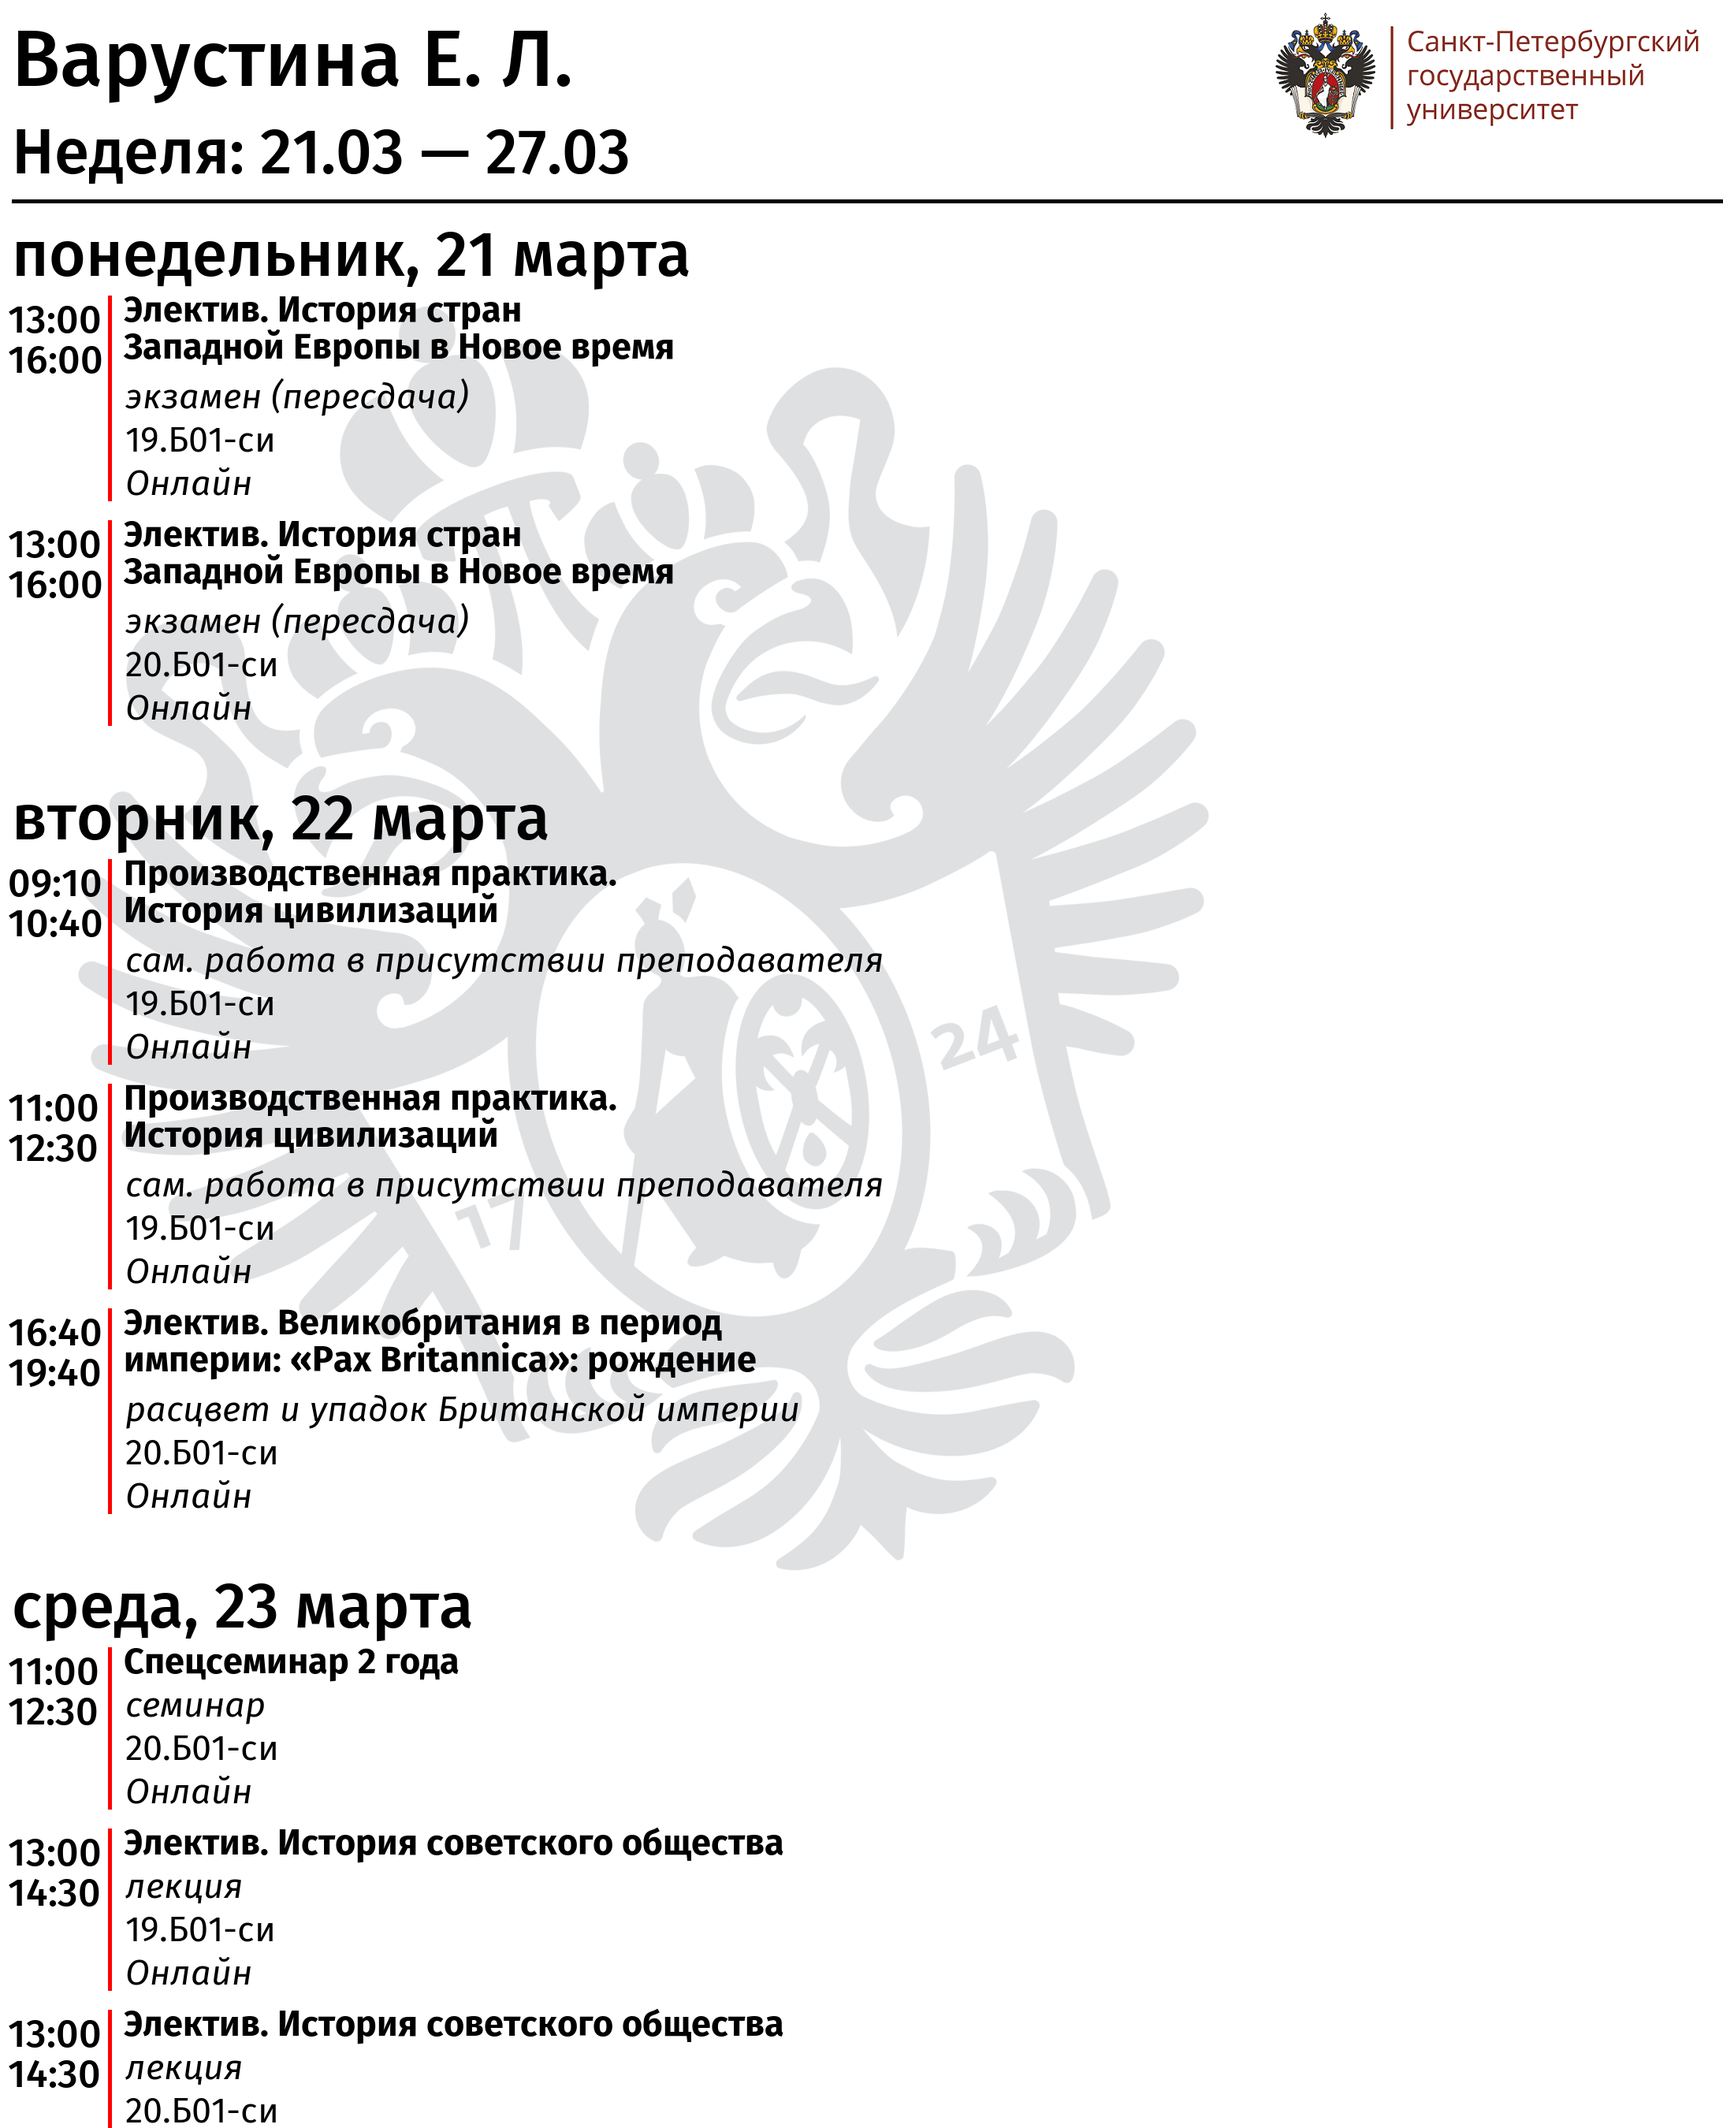
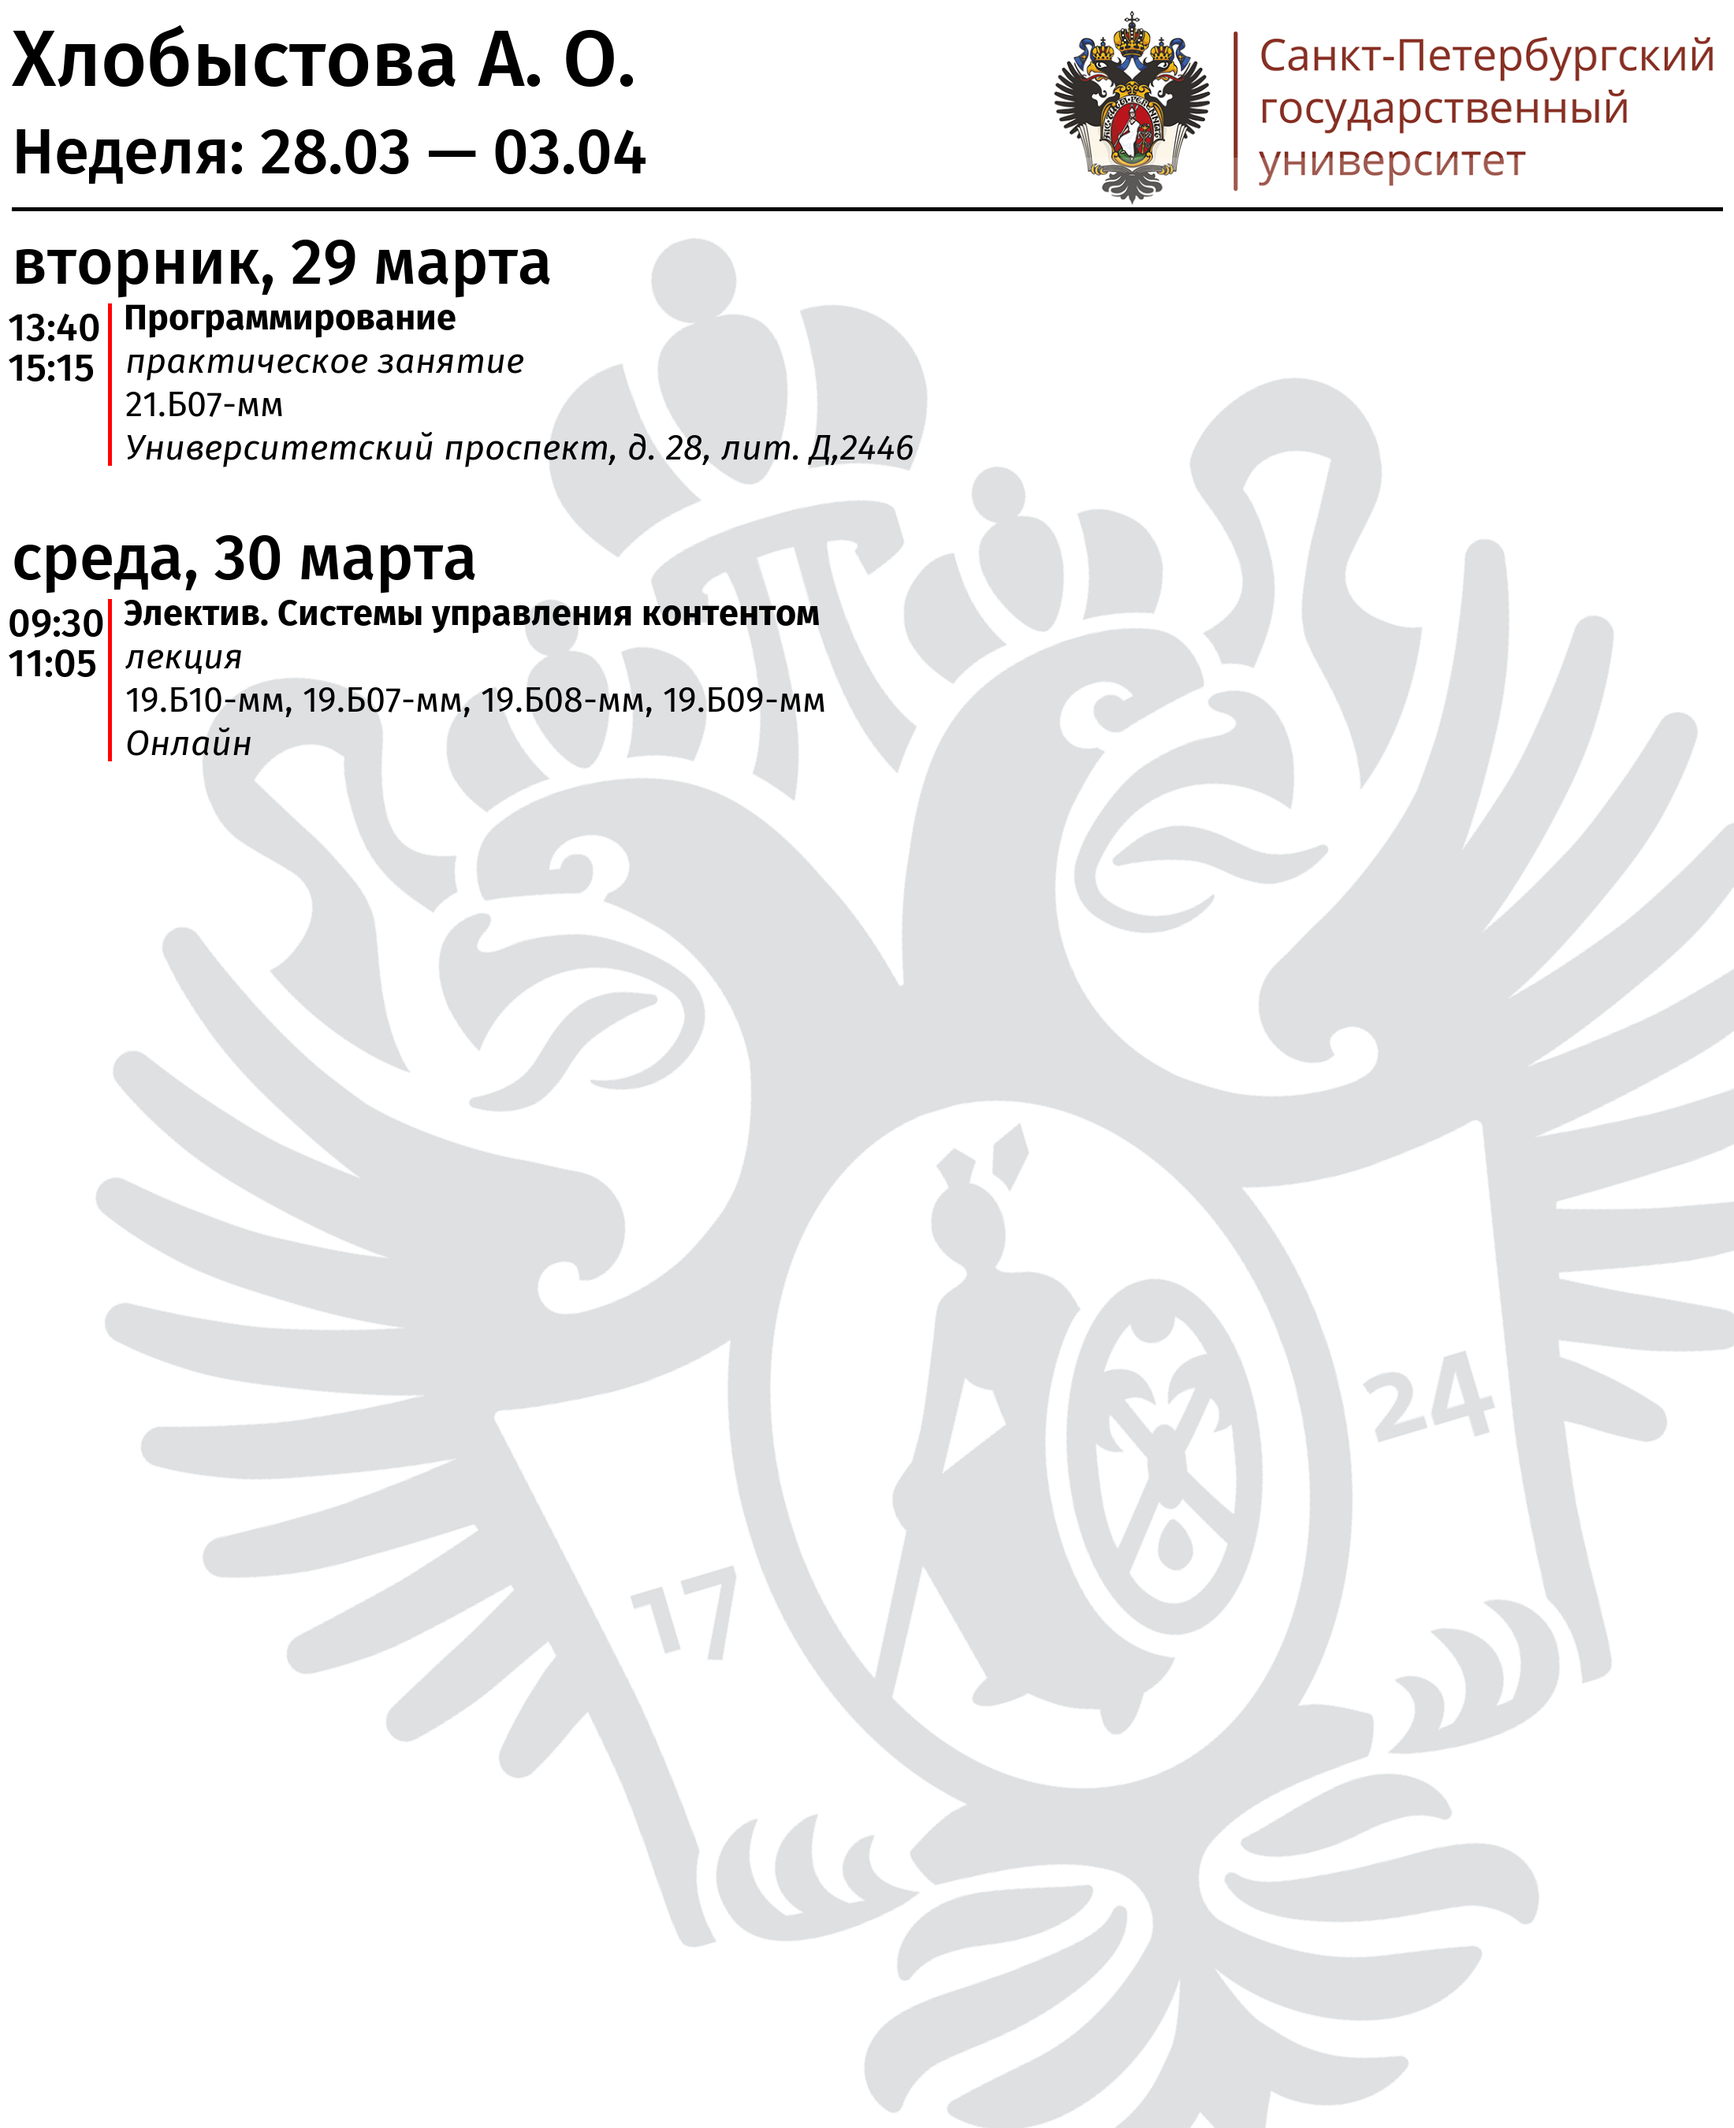
Refactoring

diff --git a/utils/image_converter/converter.py b/utils/image_converter/converter.py
@@ -12,7 +12,7 @@ class TimetableIMG:
     font_bold = ImageFont.truetype(font="data/converter/FiraSansFonts/FiraSans-Bold.ttf", size=45)
     font_italic = ImageFont.truetype(font="data/converter/FiraSansFonts/FiraSans-Italic.ttf", size=45)
 
-    def __init__(self, path_final_img):
+    def __init__(self, path_final_img: str):
         self.path_final_img = path_final_img
         self.current_image = self.create_foundation()
         self.x = 30
@@ -25,59 +25,60 @@ class TimetableIMG:
         image = Image.new(mode="RGB",
                           size=(TimetableIMG.final_img_width, TimetableIMG.final_img_height),
                           color="white")
-        image.paste(im=image_spbu, box=(image.width - image_spbu.width, 0))
+        image.paste(im=image_spbu, box=(image.width - image_spbu.width - 20, 10), mask=image_spbu)
         image_spbu.close()
-        image.paste(im=image_spbu_logo, box=(-50, 300), mask=image_spbu_logo)
+        image.paste(im=image_spbu_logo, box=(-100, 200), mask=image_spbu_logo)
         image_spbu_logo.close()
         return image
 
-    def image_title(self, title, date):
+    def image_title(self, title: str, date: str):
         x, y = self.x - 15, self.y - 15
         image = self.current_image
         draw = ImageDraw.Draw(image)
         draw.text(xy=(x, y), text=title, font=TimetableIMG.font_h1, fill="black")
         y += TimetableIMG.font_h1.size + 30
         draw.text(xy=(x, y), text=date, font=TimetableIMG.font_h2, fill="black")
-        y += TimetableIMG.font_h2.size + 30
+        y += TimetableIMG.font_h2.size + 40
         draw.line(xy=[(x, y), (image.width-x, y)], fill="black", width=5)
         y += 20
         self.x, self.y = x, y
         image.save(self.path_final_img)
 
+    def draw_text(self, xy: tuple, text: str, font: ImageFont, offset_x: int, offset_y: int) -> tuple:
+        image = self.current_image
+        draw = ImageDraw.Draw(image)
+        x, y = xy
+        if text.find('\n') == -1:
+            draw.text(xy=xy, text=text, font=font, fill="black")
+            y += font.size + offset_y
+        else:
+            draw.multiline_text(xy=xy, align="left", text=text, font=font, fill="black")
+            y += (font.size + offset_y) * 2
+        x += offset_x
+        return x, y
+
     def insert_timetable(self, timetable: str):
         text = re.findall(r">([^<]+)</", timetable)
         image = self.current_image
         draw = ImageDraw.Draw(image)
-        draw.text(xy=(self.x, self.y), text=text[0], font=TimetableIMG.font_h2, fill="black")
         skip = 10
         indent = 120
+        x, y = self.draw_text(xy=(self.x, self.y), text=text[0], font=TimetableIMG.font_h2,
+                              offset_x=indent, offset_y=skip)
         self.y += TimetableIMG.font_h2.size + skip
-        x, y = self.x + indent, self.y
         for i in range(1, len(text), 5):
-            if text[i + 1].find('\n') == -1:
-                draw.text(xy=(x, y), text="  {}".format(text[i + 1]), font=TimetableIMG.font_bold, fill="black")
-                y += TimetableIMG.font_bold.size + skip
-            else:
-                draw.multiline_text(xy=(x, y), align="left", text="  {}".format(text[i + 1]),
-                                    font=TimetableIMG.font_bold, fill="black")
-                y += (TimetableIMG.font_bold.size + skip) * 2
-            draw.text(xy=(x, y), text="  {}".format(text[i + 2]), font=TimetableIMG.font_italic, fill="black")
-            y += TimetableIMG.font_italic.size + skip
-            if text[i + 3].find('\n') == -1:
-                draw.text(xy=(x, y), text="  {}".format(text[i + 3]), font=TimetableIMG.font_reqular, fill="black")
-                y += TimetableIMG.font_reqular.size + skip
-            else:
-                draw.multiline_text(xy=(x, y), align="left", text="  {}".format(text[i + 3]),
-                                    font=TimetableIMG.font_reqular, fill="black")
-                y += (TimetableIMG.font_reqular.size + skip) * 2
-            draw.text(xy=(x, y), text="  {}".format(text[i + 4]), font=TimetableIMG.font_italic, fill="black")
-            y += TimetableIMG.font_italic.size + skip
+            x, y = self.draw_text(xy=(x, y), text=f"  {text[i + 1]}", font=TimetableIMG.font_bold,
+                                  offset_x=0, offset_y=skip)
+            x, y = self.draw_text(xy=(x, y), text=f"  {text[i + 2]}", font=TimetableIMG.font_italic,
+                                  offset_x=0, offset_y=skip)
+            x, y = self.draw_text(xy=(x, y), text=f"  {text[i + 3]}", font=TimetableIMG.font_reqular,
+                                  offset_x=0, offset_y=skip)
+            x, y = self.draw_text(xy=(x, y), text=f"  {text[i + 4]}", font=TimetableIMG.font_italic,
+                                  offset_x=0, offset_y=skip)
             draw.line(xy=[(x + 4, self.y + skip), (x + 4, y - skip//2)], fill="red", width=5)
-            draw.multiline_text(xy=(10, self.y + skip),
-                                text="{}\n{}".format(text[i].split('–')[0], text[i].split('–')[1]),
-                                font=TimetableIMG.font_h3, fill="black")
-            y += skip
-            self.x, self.y = x, y
+            self.draw_text(xy=(10, self.y + skip), text="{}\n{}".format(text[i].split('–')[0], text[i].split('–')[1]),
+                           font=TimetableIMG.font_h3, offset_x=0, offset_y=0)
+            self.x, self.y = x, y + skip
         self.y += TimetableIMG.font_reqular.size + skip
         self.x -= indent
         image.save(self.path_final_img)

diff --git a/keyboards/inline/choice_user_status_buttons.py b/keyboards/inline/choice_user_status_buttons.py
@@ -5,17 +5,17 @@ from keyboards.inline.callback_data import user_status_callback
 choice_user_status = InlineKeyboardMarkup(
     inline_keyboard=[
         [
-            InlineKeyboardButton(text="Я студент (знаю название группы)", callback_data=user_status_callback.new(
+            InlineKeyboardButton(text="❌ Я студент (знаю название группы)", callback_data=user_status_callback.new(
                 name="student group"
             ))
         ],
         [
-            InlineKeyboardButton(text="Я студент (не знаю название группы)", callback_data=user_status_callback.new(
+            InlineKeyboardButton(text="❌ Я студент (не знаю название группы)", callback_data=user_status_callback.new(
                 name="student navigation"
             ))
         ],
         [
-            InlineKeyboardButton(text="Я преподаватель", callback_data=user_status_callback.new(
+            InlineKeyboardButton(text="✅ Я преподаватель", callback_data=user_status_callback.new(
                 name="teacher"
             ))
         ]

diff --git a/keyboards/inline/timetable_buttons.py b/keyboards/inline/timetable_buttons.py
@@ -36,10 +36,10 @@ async def create_timetable_keyboard(user_type: str, tt_id: int, day_counter=0) -
                                                                                  type=user_type,
                                                                                  Id=tt_id))
     timetable_keyboard.row(this_week_button, next_week_button)
-    picture = InlineKeyboardButton(text="🖼 Картинкой 🖼",
+    picture_button = InlineKeyboardButton(text="🖼 Картинкой 🖼",
                                    callback_data=timetable_callback.new(button="3-1",
                                                                         type='picture',
                                                                         Id=0))
-    timetable_keyboard.row(picture)
+    timetable_keyboard.row(picture_button)
 
     return timetable_keyboard

diff --git a/handlers/users/start.py b/handlers/users/start.py
@@ -1,4 +1,5 @@
-from aiogram.contrib.middlewares import logging
+import logging
+
 from aiogram.dispatcher import FSMContext
 from aiogram.types import Message, CallbackQuery
 from aiogram.dispatcher.filters.builtin import CommandStart
@@ -10,6 +11,7 @@ from loader import dp
 @dp.message_handler(CommandStart(), state="*")
 async def bot_start(message: Message, state: FSMContext):
     await state.finish()
+    logging.info(f"start: id{message.from_user.id}")
     await message.answer(text=f"Добро пожаловать, {message.from_user.full_name}!\n"
                               f"Следуйте инструкциям для настройки бота.\n"
                               f"Нажмите соответствующую кнопку:",

diff --git a/handlers/users/choice_teacher.py b/handlers/users/choice_teacher.py
@@ -38,8 +38,8 @@ async def choosing_teacher(message: types.Message):
 async def wrong_last_name(message: types.Message):
     await message.chat.delete_message(message.message_id - 1)
     await message.delete()
-    await message.answer(f"Преподавателя с фамилией <i>{message.text}</i> нет!\n"
-                         "Пожалуйста, введите другую:")
+    await message.answer(f"Преподаватель <i>{message.text}</i> не найден!\n"
+                         "Пожалуйста, введите другую фамилию:")
     await TeacherChoice.getting_choice.set()
 
 
